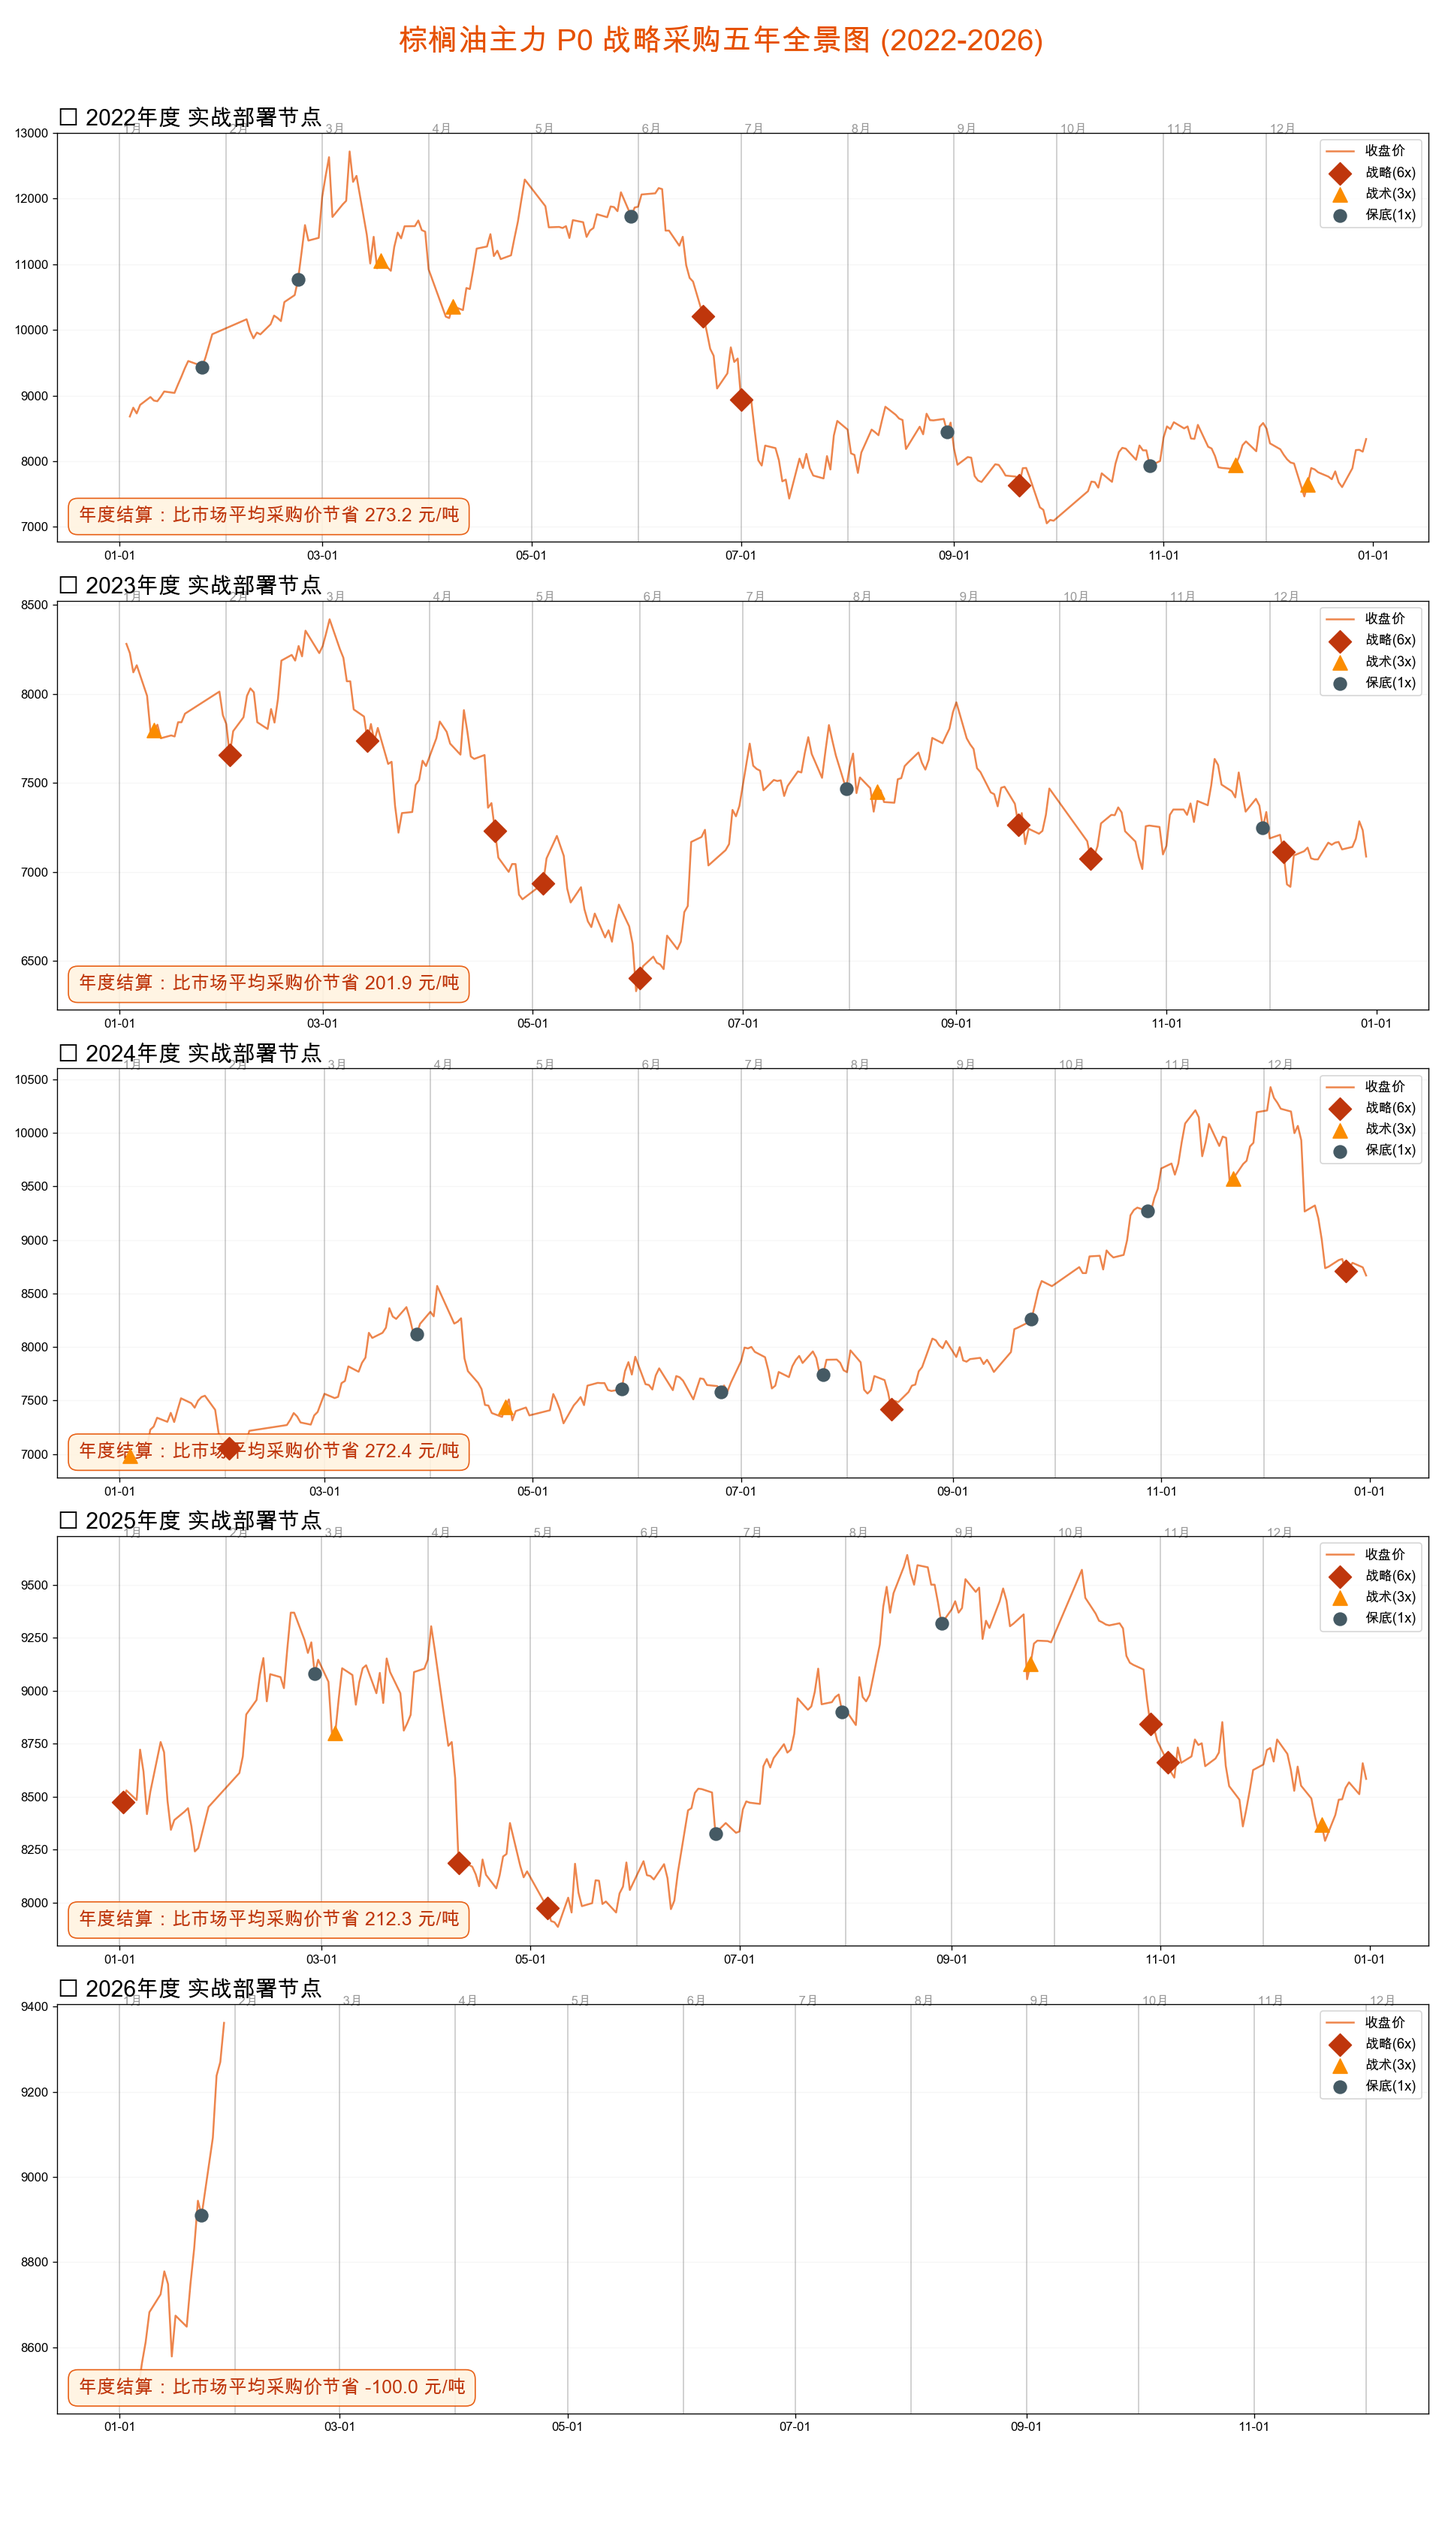
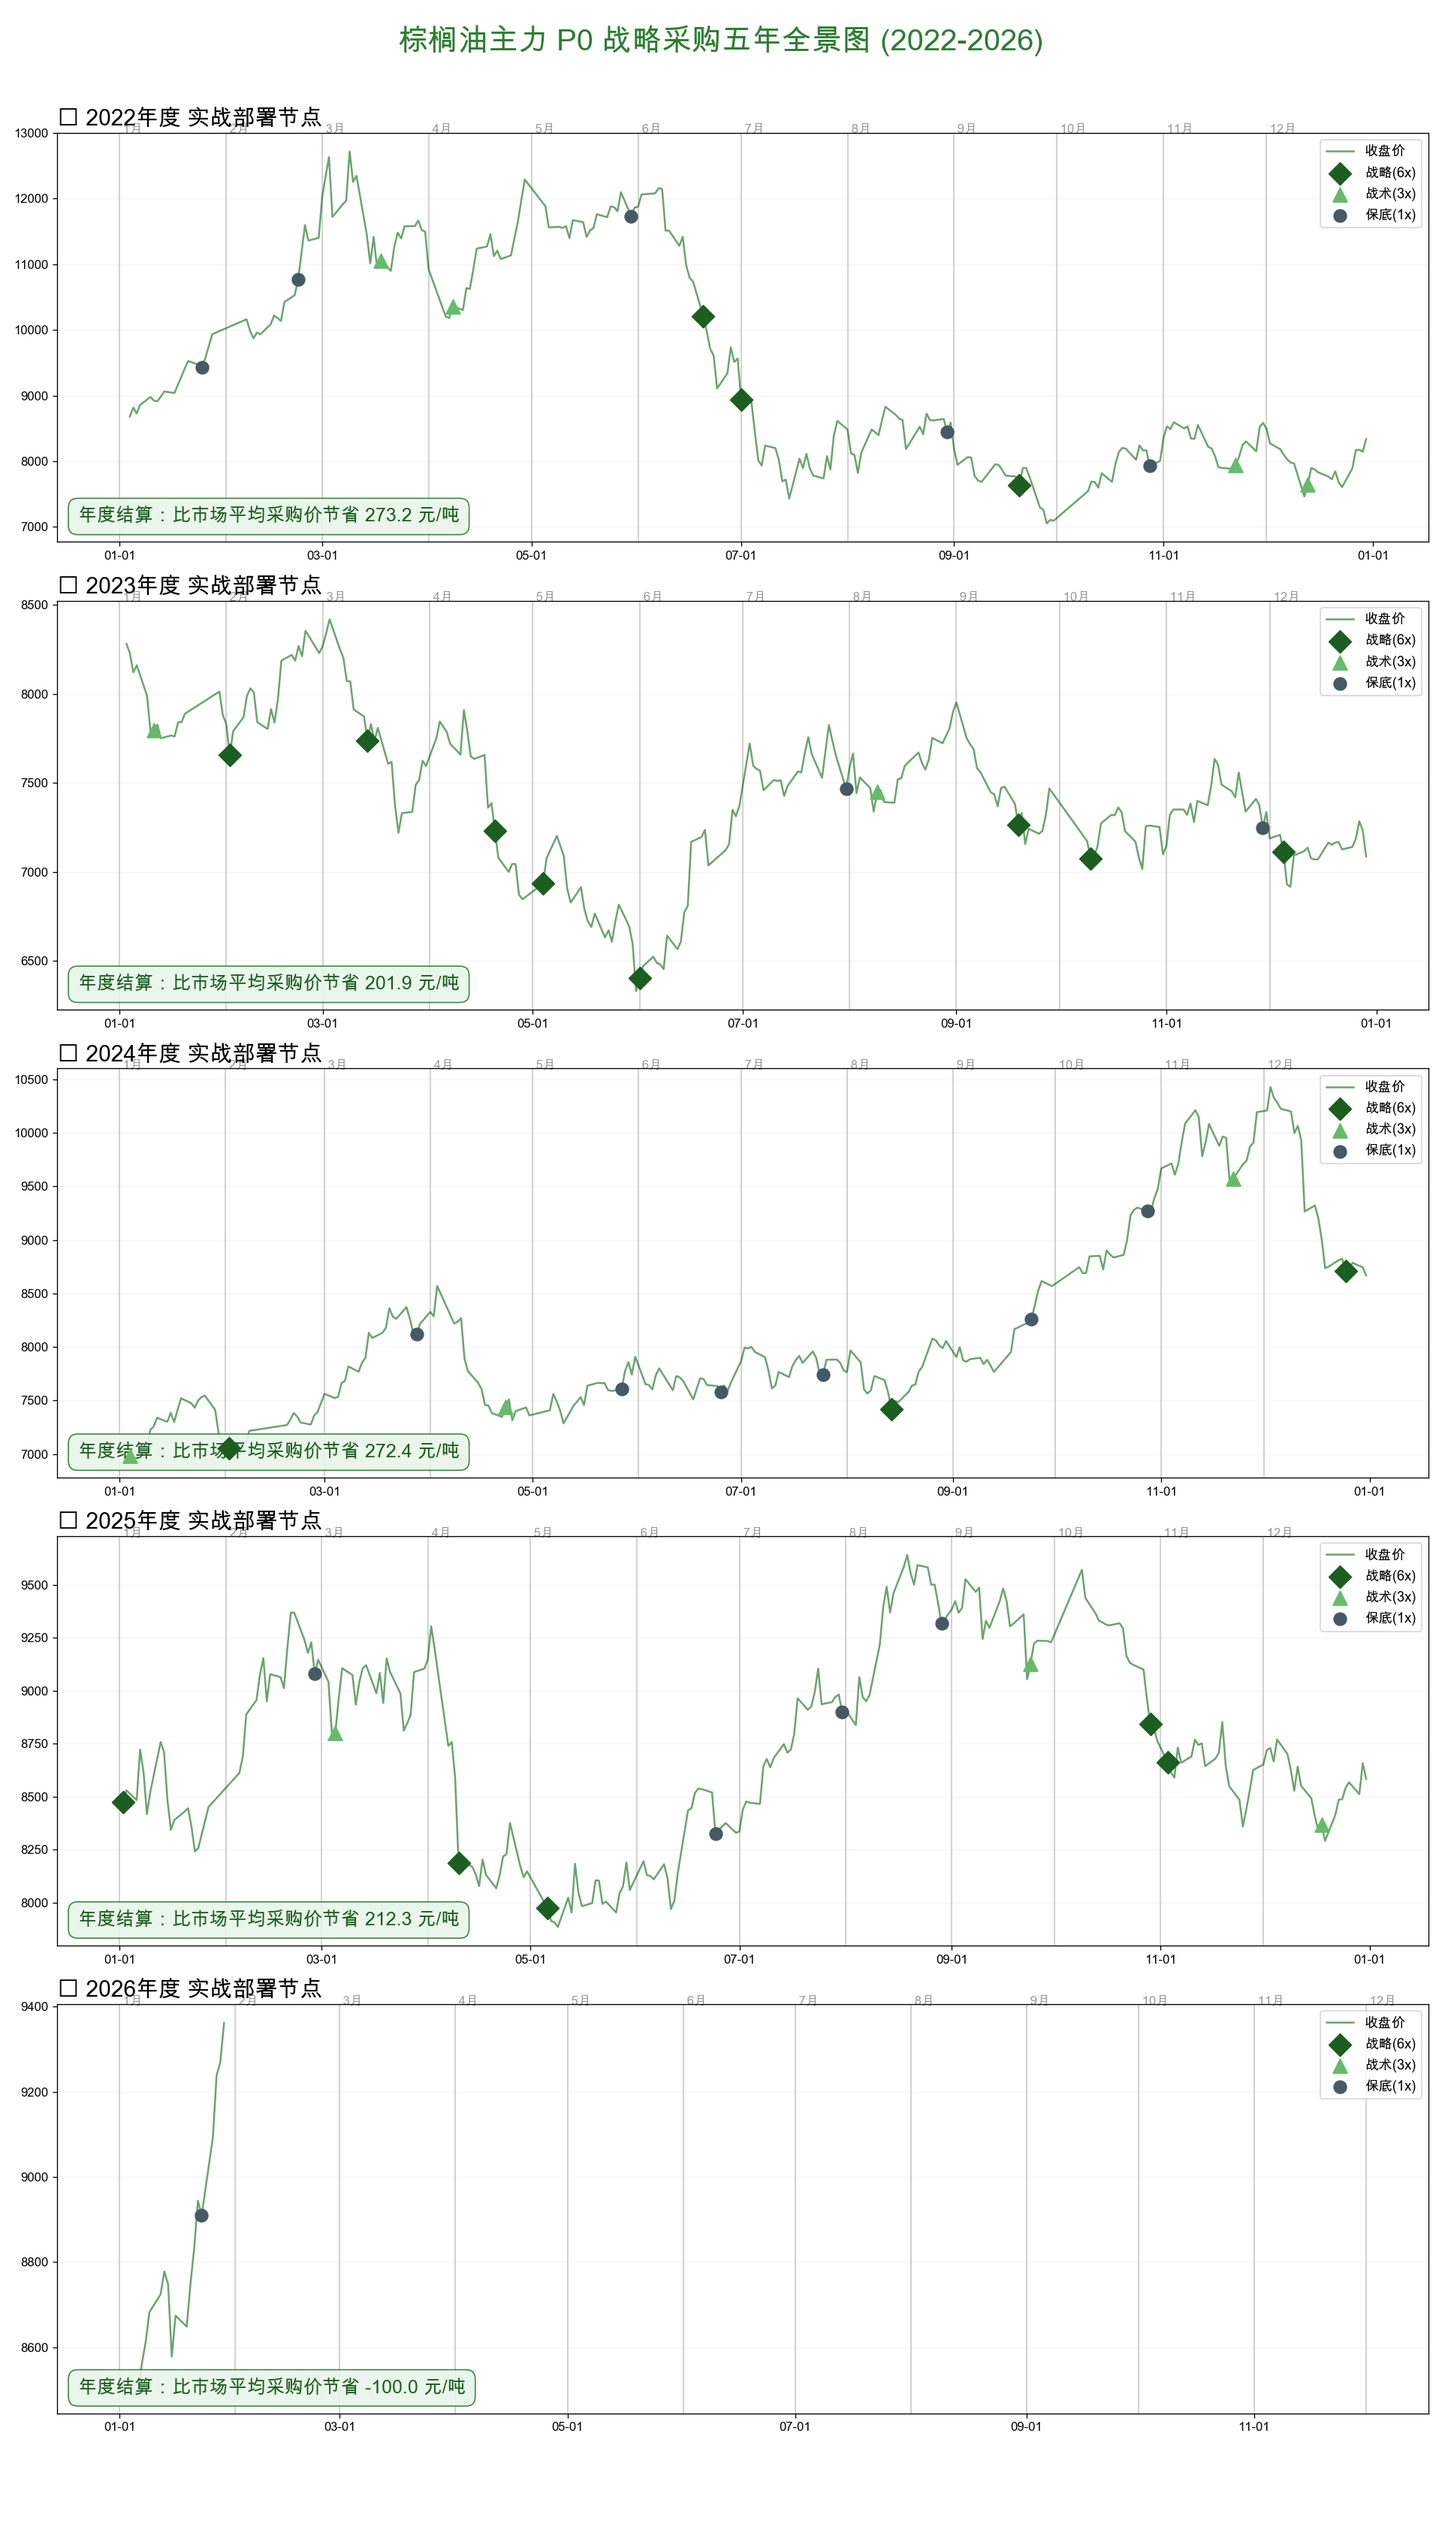
更新: 内容更新 2026-01-29 21:22:57

diff --git a/分析文章脚本/三大油脂（豆棕菜）买入节点分析追踪.py b/分析文章脚本/三大油脂（豆棕菜）买入节点分析追踪.py
@@ -31,9 +31,9 @@ SYMBOLS = {
 
 # 🎨 各品种风格配置：(折线颜色, 战略色, 战术色, 文字背景色)
 STYLE_CONFIG = {
-    'Y0':  {'line': '#1976D2', 'strat': '#0D47A1', 'tact': '#42A5F5', 'bg': '#E3F2FD'}, # 蓝色系-豆油
-    'P0':  {'line': '#E65100', 'strat': '#BF360C', 'tact': '#FB8C00', 'bg': '#FFF3E0'}, # 橙色系-棕榈油
-    'OI0': {'line': '#2E7D32', 'strat': '#1B5E20', 'tact': '#66BB6A', 'bg': '#E8F5E9'}  # 绿色系-菜油
+    'Y0':  {'line': '#E65100', 'strat': '#BF360C', 'tact': '#FB8C00', 'bg': '#FFF3E0'}, # 橙色系-豆油
+    'P0':  {'line': '#2E7D32', 'strat': '#1B5E20', 'tact': '#66BB6A', 'bg': '#E8F5E9'}, # 绿色系-棕榈油
+    'OI0': {'line': '#1976D2', 'strat': '#0D47A1', 'tact': '#42A5F5', 'bg': '#E3F2FD'}  # 蓝色系-菜油
 }
 
 def 核心信号决策引擎(df):

diff --git a/content/posts/三大油脂（豆棕菜）买入节点分析追踪图.md b/content/posts/三大油脂（豆棕菜）买入节点分析追踪图.md
@@ -1,6 +1,6 @@
 ---
 title: "三大油脂（豆棕菜）买入节点分析追踪图"
-date: 2026-01-29T21:21:42+08:00
+date: 2026-01-29T21:22:57+08:00
 tags: ["油脂", "策略", "买入节点", "期货"]
 categories: ["市场分析"]
 ---
